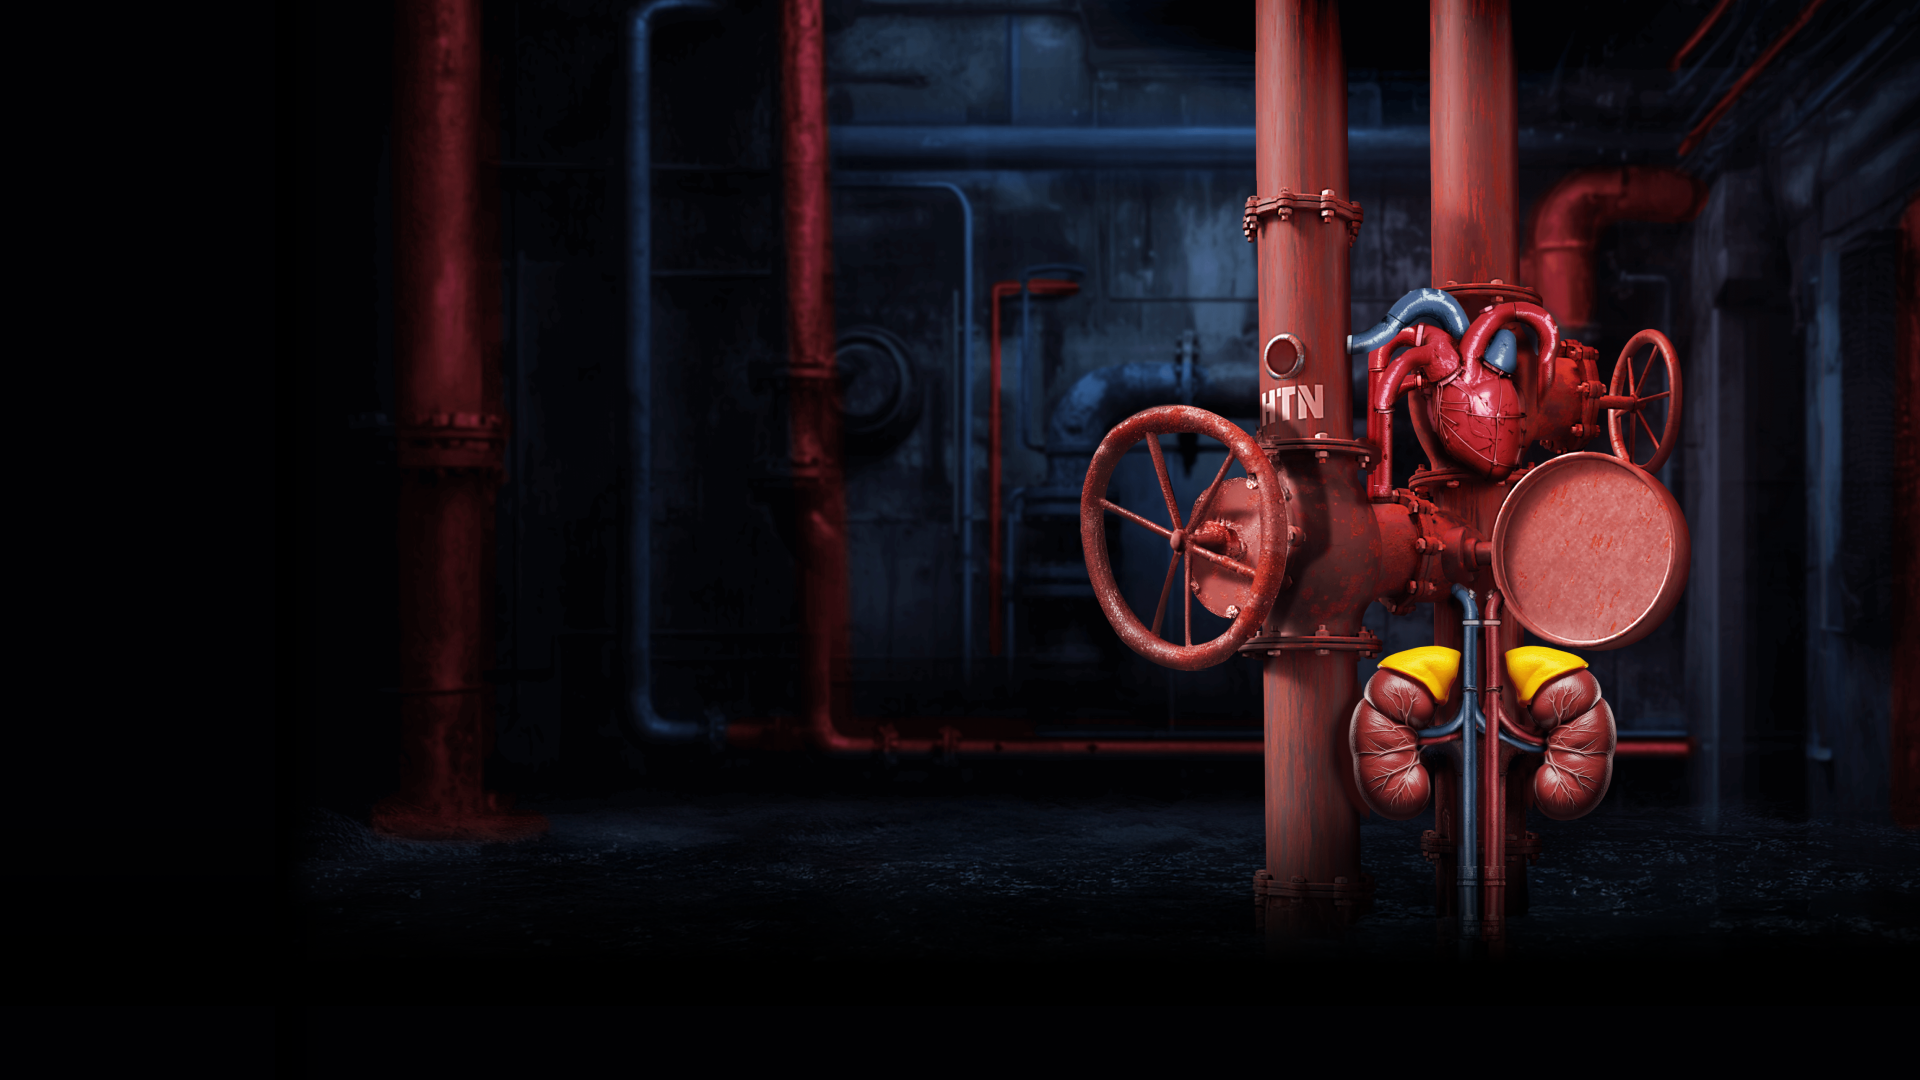
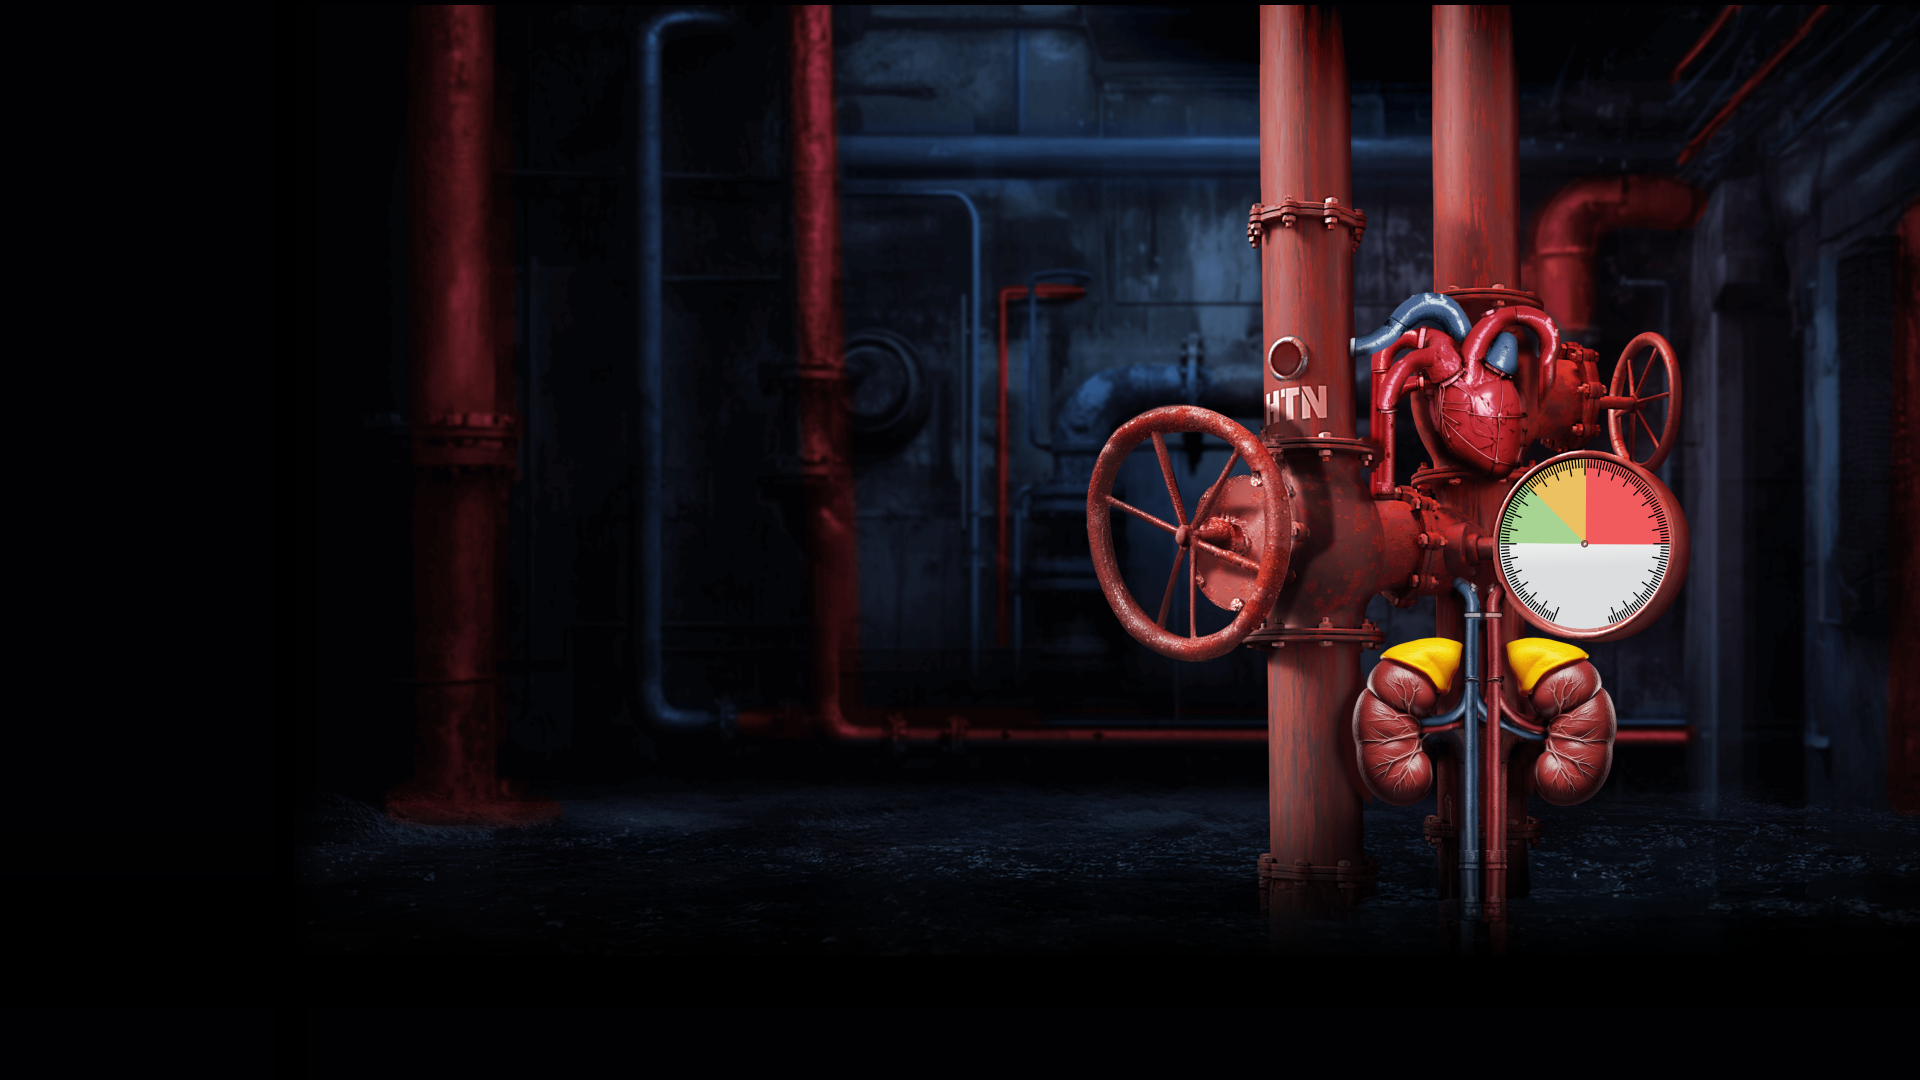
timer

diff --git a/src/components/QuestionScreen.vue b/src/components/QuestionScreen.vue
@@ -441,39 +441,51 @@ function hideImage(event) {
 .quiz-screen.bg-green {
   background: url('/green-desktop.png');
   background-size: cover;
-  background-position: center left 200px;
+  background-position: right -150px center;
+  background-attachment: fixed;
+  background-repeat: no-repeat;
 }
 
 .quiz-screen.bg-yellow {
   background: url('/yellow-desktop.png');
   background-size: cover;
-  background-position: center left 200px;
+  background-position: right -150px center;
+  background-attachment: fixed;
+  background-repeat: no-repeat;
 }
 
 .quiz-screen.bg-red {
   background: url('/red-desktop.png');
   background-size: cover;
-  background-position: center left 200px;
+  background-position: right -150px center;
+  background-attachment: fixed;
+  background-repeat: no-repeat;
 }
 
 /* Tablet styles */
 @media (min-width: 769px) and (max-width: 1024px) {
   .quiz-screen.bg-green {
-    background: url('/green-tablet.png');
+    background: url('/green-desktop.png');
     background-size: cover;
-    background-position: center;
+    background-position: right -150px center;
+    background-attachment: fixed;
+    background-repeat: no-repeat;
   }
 
   .quiz-screen.bg-yellow {
-    background: url('/yellow-tablet.png');
+    background: url('/yellow-desktop.png');
     background-size: cover;
-    background-position: center;
+    background-position: right -150px center;
+    background-attachment: fixed;
+    background-repeat: no-repeat;
   }
 
   .quiz-screen.bg-red {
-    background: url('/red-tablet.png');
+    background: url('/red-desktop.png');
     background-size: cover;
-    background-position: center;
+    background-position: right -150px center;
+    background-attachment: fixed;
+    background-repeat: no-repeat;
   }
 
   /* Apply 60% scaling for tablet to prevent overflow */
@@ -498,7 +510,8 @@ function hideImage(event) {
   }
 
   .fine-print-content {
-    font-size: clamp(10px, 0.48vw, 5px) !important;
+    font-size: clamp(5.4px, 0.48vw, 6.6px) !important;
+    line-height: clamp(6.6px, 0.6vw, 7.8px) !important;
   }
 
   .explanation-content {
@@ -751,9 +764,9 @@ function hideImage(event) {
 /* Tablet styles */
 @media (max-width: 1024px) {
   .timer-dial {
-    zoom: clamp(1.2, 1.8vw, 1.8);
-    right: clamp(20px, 3vw, 40px);
-    top: clamp(140px, 15vh, 180px);
+    /* zoom: clamp(1.2, 1.8vw, 1.8); */
+    right: 2%;
+    top: 43.5%;
   }
   
   
@@ -930,8 +943,8 @@ function hideImage(event) {
   }
 
   .timer-dial {
-    right: clamp(24px, 3vw, 37px); /* 60% of 40px and 62px */
-    top: clamp(108px, 15vh, 146px); /* 60% of 180px and 243px */
+    right: 2.5%; /* 60% of 40px and 62px */
+    top: 43.5%; /* 60% of 180px and 243px */
     zoom: clamp(0.9, 1.5vw, 1.26); /* 60% of 1.5 and 2.1 */
   }
 
@@ -1124,9 +1137,9 @@ function hideImage(event) {
   }
 
   .timer-dial {
-    right: clamp(32px, 4vw, 50px); /* 80% of 40px and 62px */
-    top: clamp(144px, 20vh, 194px); /* 80% of 180px and 243px */
-    zoom: clamp(1.2, 2vw, 1.68); /* 80% of 1.5 and 2.1 */
+    right: 6.7%;
+    top: 46%;
+    transform: scale(1.6);
   }
 
   .question-overlay {
